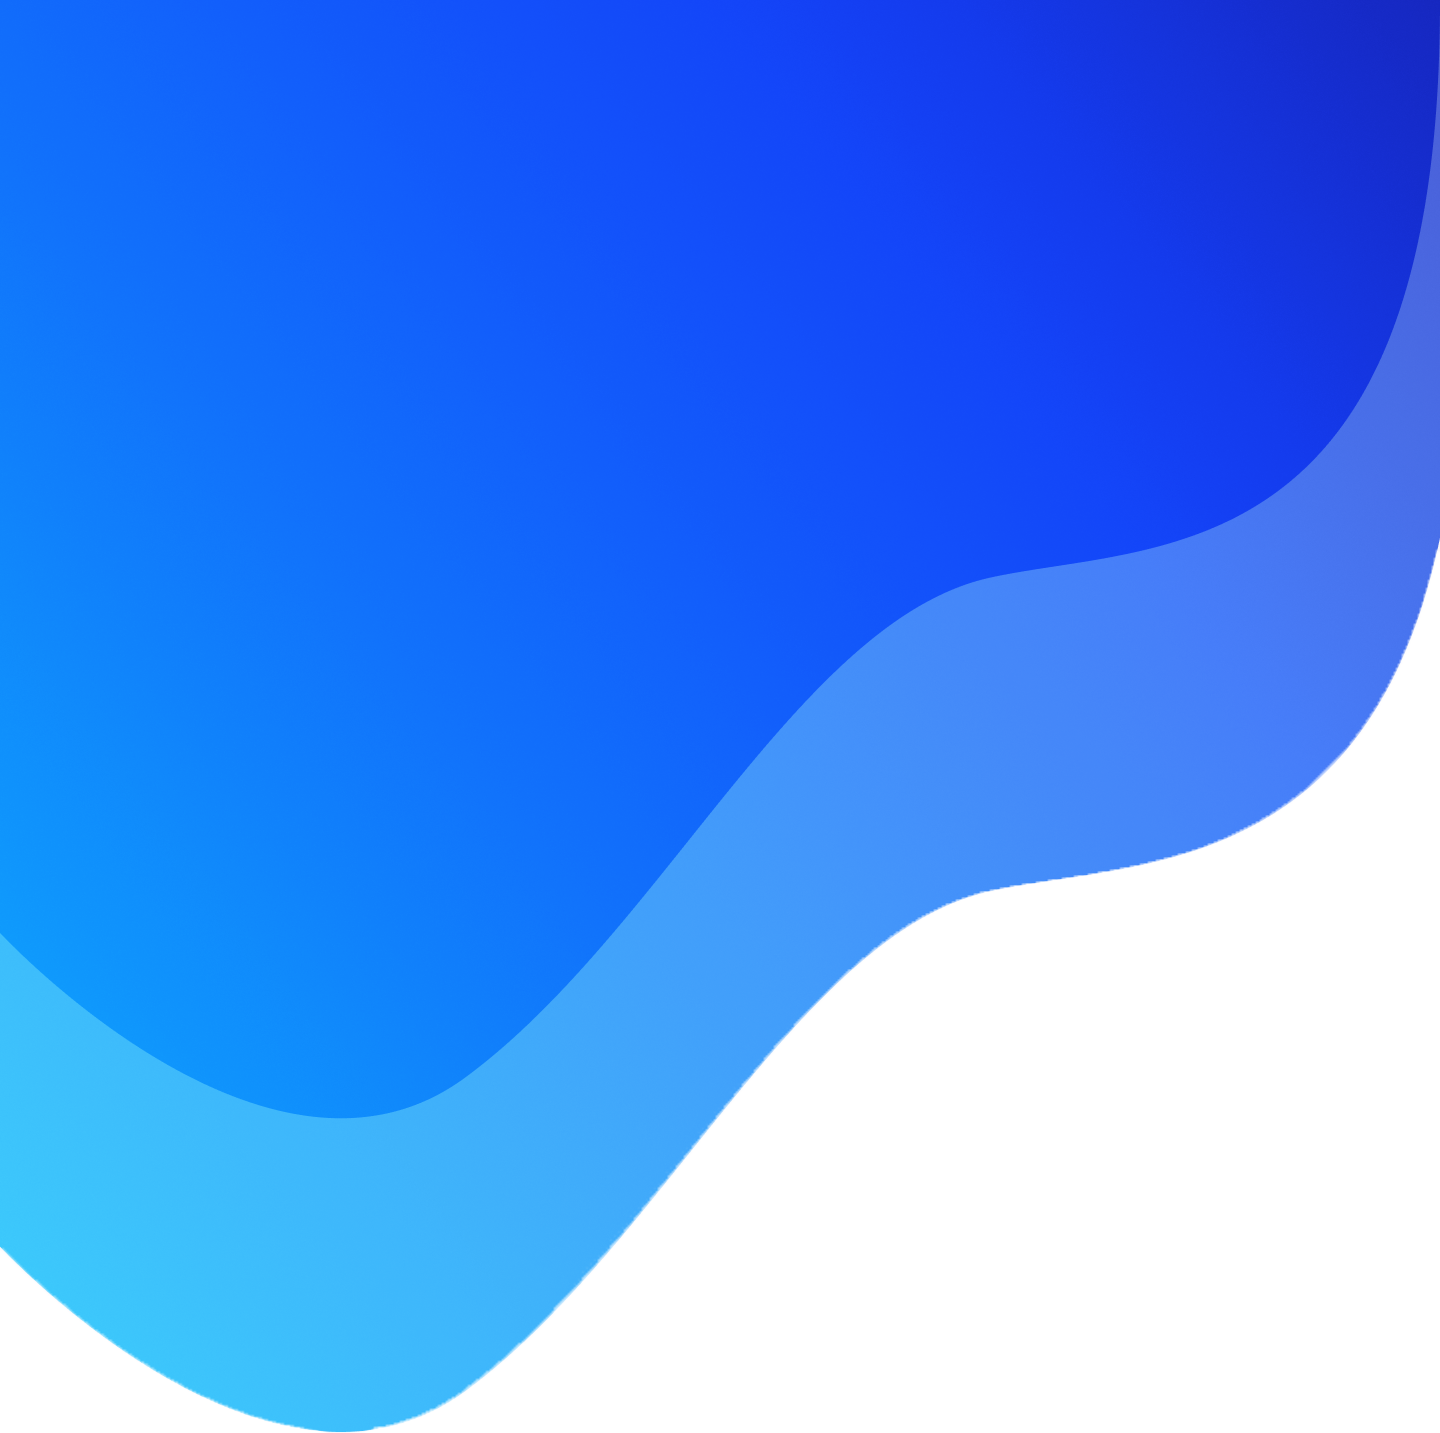
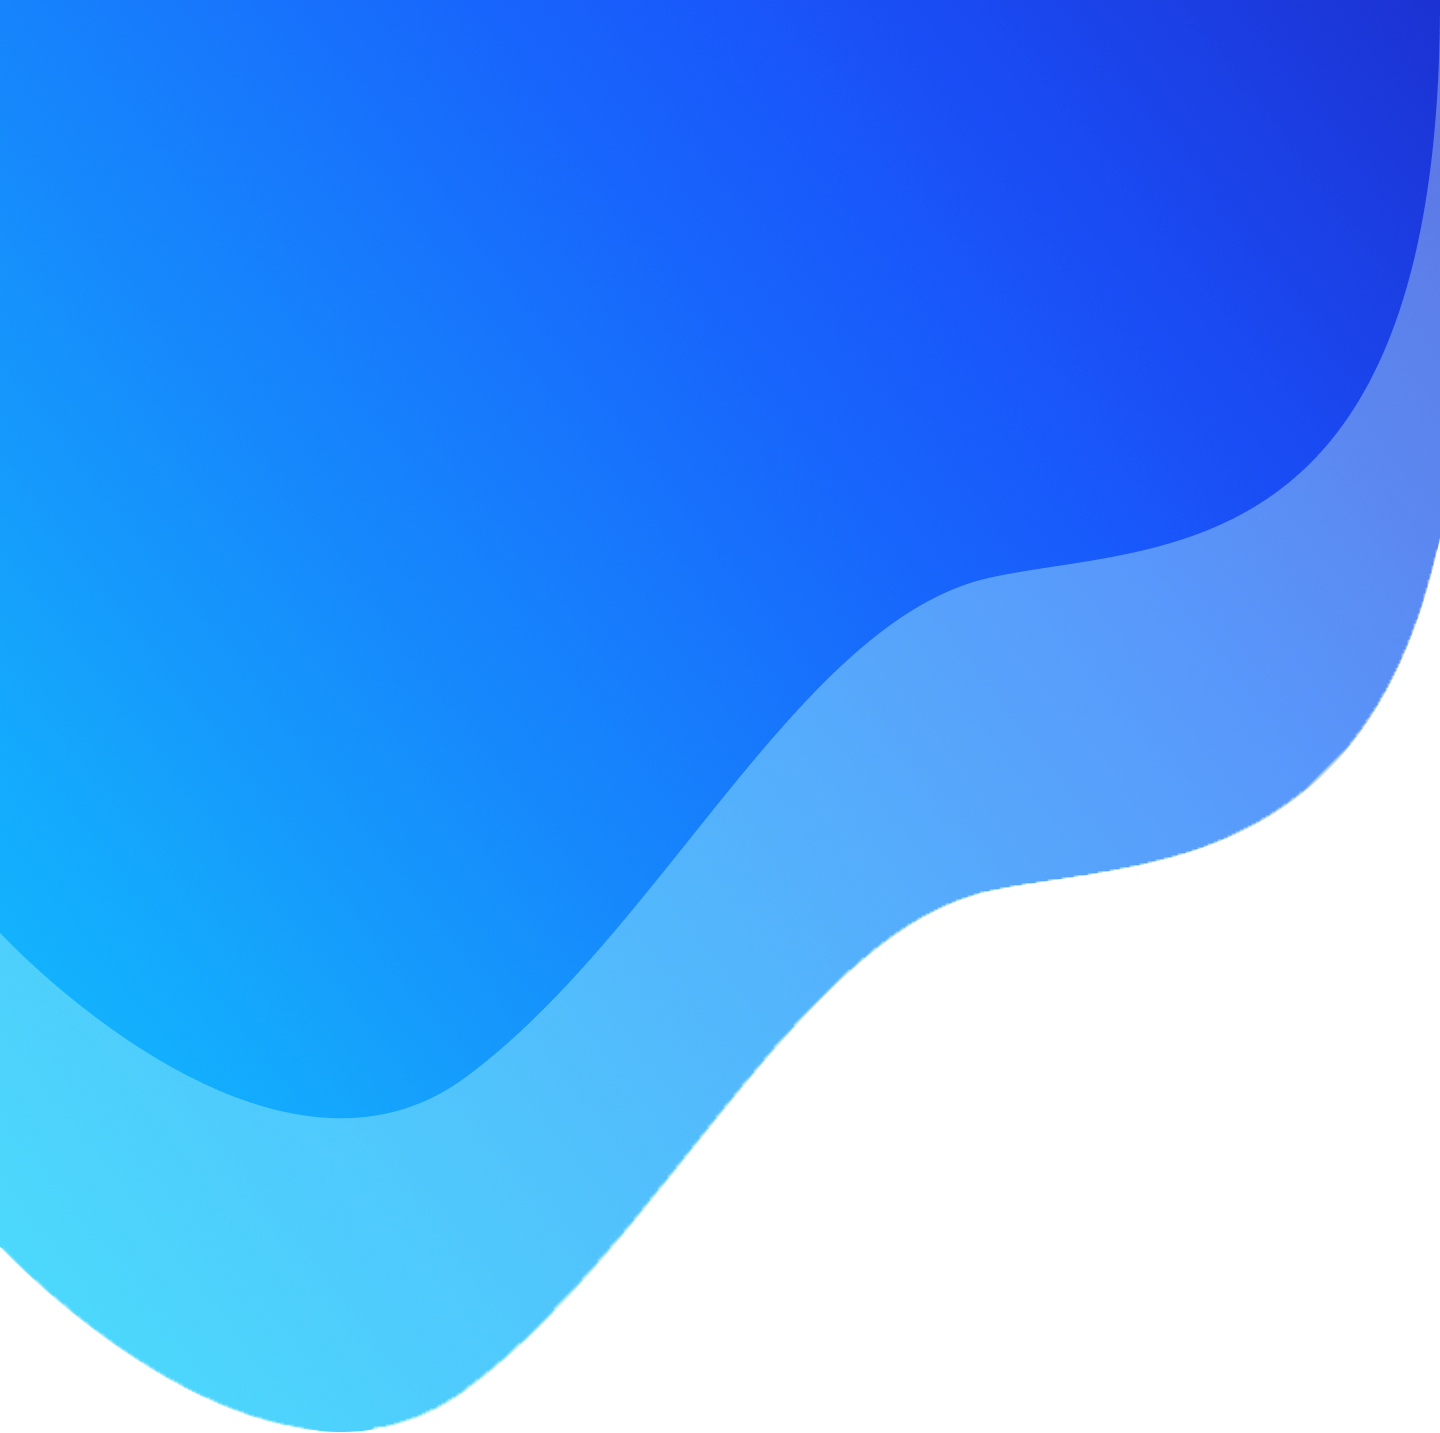
update css

Changed region(s): [[0.0, 0.0921, 0.4375, 0.7983], [0.5312, 0.307, 1.0, 0.6448]]

diff --git a/whatwedo.html b/whatwedo.html
@@ -16,30 +16,24 @@
     <div id="loader">
 
     </div>
-    <nav class="navbar navbar-expand-lg navbar-light bg-primary">
+    <nav class="navbar navbar-expand-lg navbar-light bg-transparent">
         <div class="container">
-            <a class="navbar-brand" href="#">Navbar</a>
-        <button class="navbar-toggler" type="button" data-toggle="collapse" data-target="#navbarNav" aria-controls="navbarNav" aria-expanded="false" aria-label="Toggle navigation">
-          <span class="navbar-toggler-icon"></span>
-        </button>
-        <div class="collapse navbar-collapse" id="navbarNav">
-          <ul class="navbar-nav ml-auto">
-            <li class="nav-item active">
-              <a class="nav-link" href="#">Home <span class="sr-only">(current)</span></a>
-            </li>
-            <li class="nav-item">
-              <a class="nav-link" href="#">Features</a>
-            </li>
-            <li class="nav-item">
-              <a class="nav-link" href="#">Pricing</a>
-            </li>
-            <li class="nav-item">
-              <a class="nav-link disabled">Disabled</a>
-            </li>
-          </ul>
+             <a class="navbar-brand" href="#">
+                 <img src="assets/img/ic_logo_head.png" alt="">
+             </a>
+             <button class="navbar-toggler" type="button" data-toggle="collapse" data-target="#navbarNavAltMarkup" aria-controls="navbarNavAltMarkup" aria-expanded="false" aria-label="Toggle navigation">
+             <span class="navbar-toggler-icon"></span>
+             </button>
+             <div class="collapse navbar-collapse" id="navbarNavAltMarkup">
+             <div class="navbar-nav ml-auto">
+                 <a class="nav-link active text-white" href="#">Home <span class="sr-only">(current)</span></a>
+                 <a class="nav-link text-white" href="#">Features</a>
+                 <a class="nav-link text-white" href="#">Pricing</a>
+                 <a class="nav-link text-white" href="#">Disabled</a>
+             </div>
+             </div>
         </div>
-        </div>
-    </nav>
+       </nav>
     <div class="container pt-5">
         <div id="whatwedo-header" class="pb-5 mb-5">
             <div class="row">
@@ -65,7 +59,7 @@
                 <div class="col-lg-6 col-sm-12">
                     <div class="frame-card">
                         <h1>
-                        socmed-management
+                        Social Media management
                     </h1>
                     <span>
                         <p>your expert partner for a strong online presence. We create engaging content, manage platforms, and analyze performance. Maximize your social media ROI with us.</p>
@@ -160,36 +154,84 @@
         <!-- end social -->
         </div>
    </div>
-  
-    <footer>
-        <div class="container">
-            <div class="row">
-                <div class="col-lg-5 col-sm-12">
-                    <span>copyright &copy; 2023 by Lazcore Inovasi Digital</span>
-                </div>
-                <div class="col-lg-4 col-sm-12">
-                    <ul class="list-group list-group-horizontal list-group-flush">
-                        <li class="list-group-item">An item</li>
-                        <li class="list-group-item">A second item</li>
-                        <li class="list-group-item">A third item</li>
-                      </ul>
-                </div>
-                <div class="col-lg-3 col-sm-12">
-                    <div class="d-inline align-items-end flex-column">
-                        <a href="">
-                            <img src="assets/img/ic_instagram.png" alt="">
-                        </a>
-                        <a href="">
-                            <img src="assets/img/ic_instagram.png" alt="">
-                        </a>
-                        <a href="">
-                            <img src="assets/img/ic_instagram.png" alt="">
-                        </a>
+   <div id="collaborate">
+    <div id="footer">
+        <div class="footer-hero h-100">
+            <video src="http://www.georgewpark.com/video/blurred-street.mp4" autoplay muted loop></video>
+                <div class="align-items-center d-flex justify-content-center position-relative" id="hero">
+                    <div class="container">
+                      <div id="collaborate">
+                        <div class="container">
+                            <div id="back-video">
+            
+                            </div>
+                            <h1 class="text-white">Lets Collaborate</h1>
+                            <span class="text-white">Ready to Explore Your Digital Ecosystem Potential? Connect with Us Today.</span>
+                            <form>
+                                <div class="form-row">
+                                  <div class="form-group col-lg-6 col-12">
+                                    <label for="inputEmail4">Email</label>
+                                    <input type="email" class="form-control form-control-lg" id="inputEmail4">
+                                  </div>
+                                  <div class="form-group col-lg-6 col-12">
+                                    <label for="inputPassword4">Password</label>
+                                    <input type="password" class="form-control form-control-lg" id="inputPassword4">
+                                  </div>
+                                </div>
+                                <div class="form-row">
+                                    <div class="form-group col-lg-6 col-12">
+                                      <label for="inputEmail4">Email</label>
+                                      <input type="email" class="form-control form-control-lg" id="inputEmail4">
+                                    </div>
+                                    <div class="form-group col-lg-6 col-12">
+                                      <label for="inputPassword4">Password</label>
+                                      <input type="password" class="form-control form-control-lg" id="inputPassword4">
+                                    </div>
+                                    <div class="form-group col-lg-12 col-12">
+                                        <label for="inputPassword4">Password</label>
+                                        <input type="password" class="form-control form-control-lg" id="inputPassword4">
+                                      </div>
+                                    </div>
+                                    <button type="submit" class="btn btn-submit mt-5">Sign in</button>
+                              </form>
+                        </div>
                     </div>
+                    </div><br>
+                    <!-- <img src="assets/img/artwork_bisdev.png" alt=""> -->
                 </div>
-            </div>
         </div>
-    </footer>
+      </div>
+</div>    
+
+<!-- footer -->
+<footer id="contact" class=" mt-5 pt-5 mb-5">
+    <div>
+        <img src="assets/img/footer.png" class="img-fluid" style="width: 100%;" alt="">
+    </div>
+    <div class="container">
+        <div class="row" style="row-gap: 1rem;">
+            <div class="border-footer"></div>
+            <div class="col-12 col-lg-4 order-lg-1 order-md-3 order-sm-3 ">
+                <p>copyright &copy; 2023 Lazcore Inovasi Digital</p>
+            </div>
+            <div class="col-12 col-lg-5 d-flex flex-wrap order-md-1" style="column-gap: 2rem;row-gap: .5rem;">
+                <a target="_blank" href="https://julpik.gumroad.com/">Gumroad</a>
+                <a target="_blank" href="https://payhip.com/julpik">Payhip</a>
+                <a target="_blank" href="https://www.behance.net/julpik_">Behance</a>
+                <a target="_blank" href="https://www.instagram.com/julpik_/">Instagram</a>
+                
+            </div>
+            <div class="col-12 col-lg-3 order-md-2">
+                <a target="_blank" href="https://julpik.gumroad.com/">Gumroad</a>
+                <a target="_blank" href="https://payhip.com/julpik">Payhip</a>
+                <a target="_blank" href="https://www.behance.net/julpik_">Behance</a>
+                
+            </div>
+            
+        </div>
+    </div>
+   
+</footer>
 </body>
 <script src="https://cdn.jsdelivr.net/npm/jquery@3.5.1/dist/jquery.slim.min.js" integrity="sha384-DfXdz2htPH0lsSSs5nCTpuj/zy4C+OGpamoFVy38MVBnE+IbbVYUew+OrCXaRkfj" crossorigin="anonymous"></script>
 <script src="https://cdn.jsdelivr.net/npm/popper.js@1.16.1/dist/umd/popper.min.js" integrity="sha384-9/reFTGAW83EW2RDu2S0VKaIzap3H66lZH81PoYlFhbGU+6BZp6G7niu735Sk7lN" crossorigin="anonymous"></script>

diff --git a/ourwork.html b/ourwork.html
@@ -161,7 +161,52 @@
                   </form>
             </div>
         </div>    
-
+        <div id="footer">
+            <div class="footer-hero h-100">
+                <video src="http://www.georgewpark.com/video/blurred-street.mp4" autoplay muted loop></video>
+                    <div class="align-items-center d-flex justify-content-center position-relative" id="hero">
+                        <div class="container">
+                          <div id="collaborate">
+                            <div class="container">
+                                <div id="back-video">
+                
+                                </div>
+                                <h1 class="text-white">Lets Collaborate</h1>
+                                <span class="text-white">Ready to Explore Your Digital Ecosystem Potential? Connect with Us Today.</span>
+                                <form>
+                                    <div class="form-row">
+                                      <div class="form-group col-lg-6 col-12">
+                                        <label for="inputEmail4">Email</label>
+                                        <input type="email" class="form-control form-control-lg" id="inputEmail4">
+                                      </div>
+                                      <div class="form-group col-lg-6 col-12">
+                                        <label for="inputPassword4">Password</label>
+                                        <input type="password" class="form-control form-control-lg" id="inputPassword4">
+                                      </div>
+                                    </div>
+                                    <div class="form-row">
+                                        <div class="form-group col-lg-6 col-12">
+                                          <label for="inputEmail4">Email</label>
+                                          <input type="email" class="form-control form-control-lg" id="inputEmail4">
+                                        </div>
+                                        <div class="form-group col-lg-6 col-12">
+                                          <label for="inputPassword4">Password</label>
+                                          <input type="password" class="form-control form-control-lg" id="inputPassword4">
+                                        </div>
+                                        <div class="form-group col-lg-12 col-12">
+                                            <label for="inputPassword4">Password</label>
+                                            <input type="password" class="form-control form-control-lg" id="inputPassword4">
+                                          </div>
+                                        </div>
+                                        <button type="submit" class="btn btn-submit mt-5">Sign in</button>
+                                  </form>
+                            </div>
+                        </div>
+                        </div><br>
+                        <!-- <img src="assets/img/artwork_bisdev.png" alt=""> -->
+                    </div>
+            </div>
+          </div>
         <!-- footer -->
         <footer id="contact" class=" mt-5 pt-5 mb-5">
             <div>

diff --git a/assets/css/styles.css b/assets/css/styles.css
@@ -46,7 +46,7 @@ body{
 }
 #socmed-management .frame-card {
     height: 552px;
-    padding: 0px 88px 0px 91px;
+    padding: 0px 0px 0px 30px;
 }
 #socmed-management h1 {
     color: #2D1D61;
@@ -138,7 +138,7 @@ body{
 }
 
 .header-background {
-    /* background-image: url('../img/bannerr.png'); */
+    background-image: url('../img/bannerr.png');
     background-repeat:no-repeat;
     -webkit-background-size:cover;
     -moz-background-size:cover;
@@ -177,7 +177,8 @@ body{
 
 .bottom-part {
     width: 100%;
-    background: url("../img/wave.png")  center no-repeat;
+    height: auto;
+    background: url("../img/rectangle-center.png") no-repeat center center;
     background-size: cover;
 }
 
